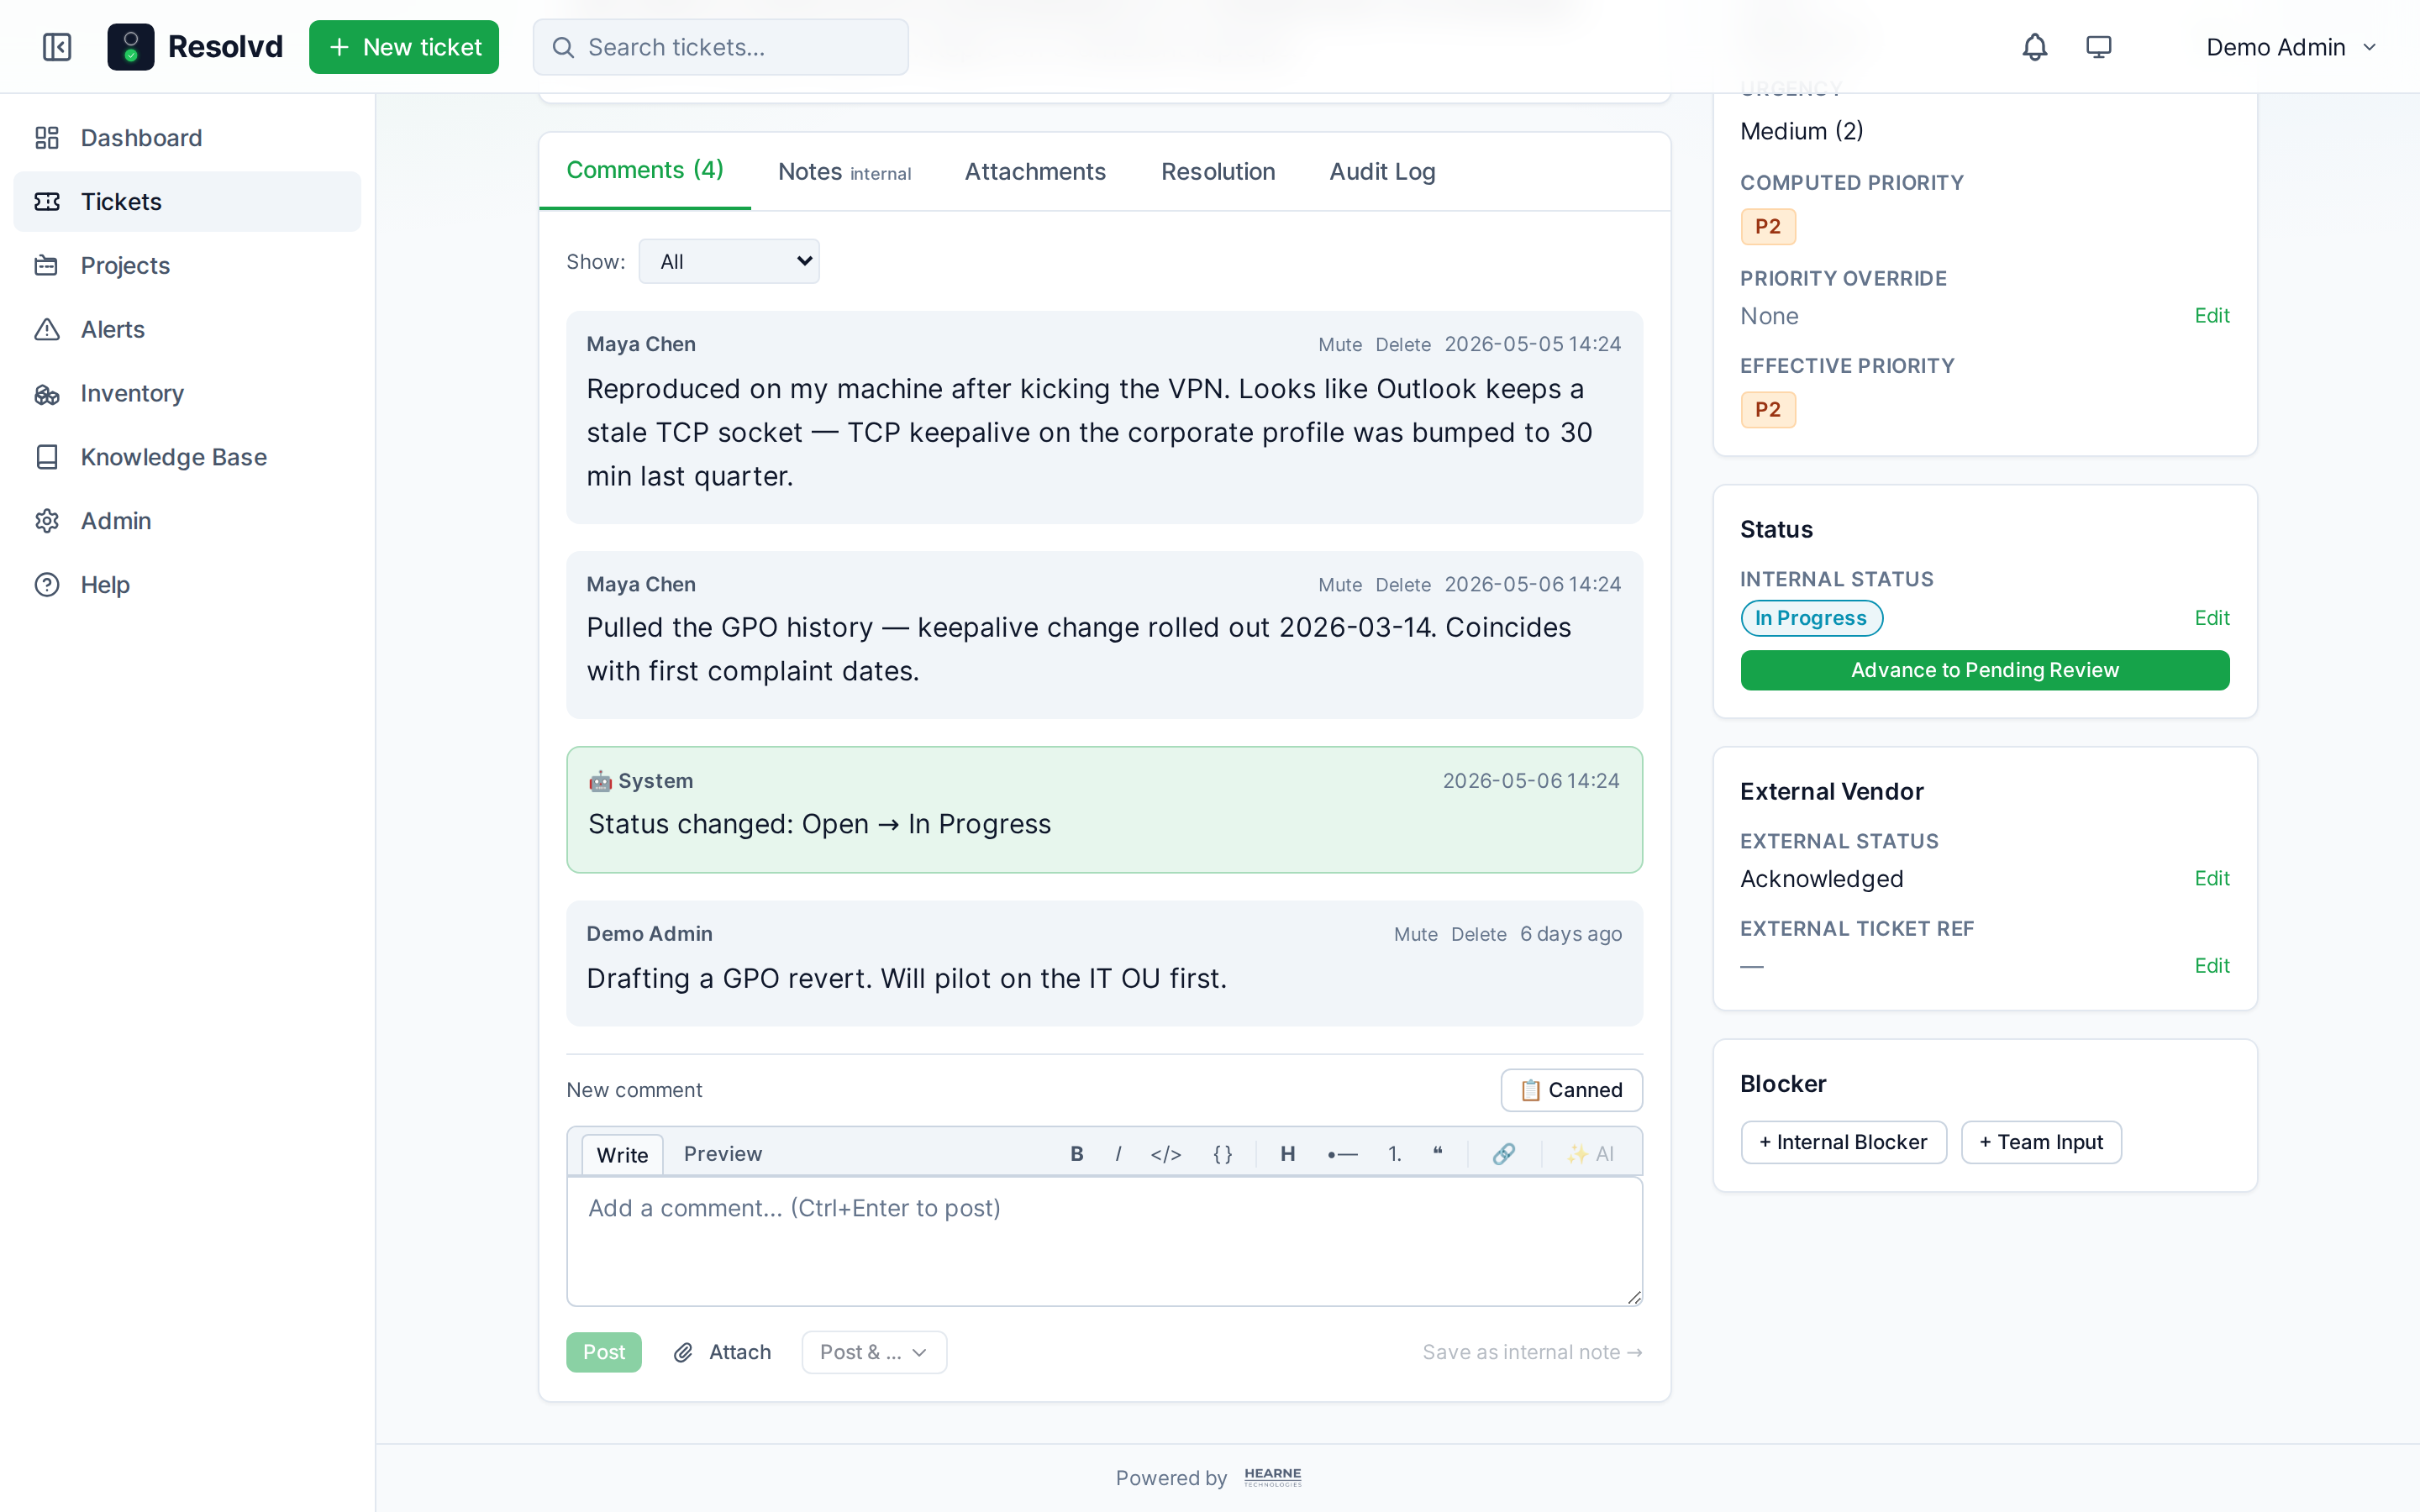
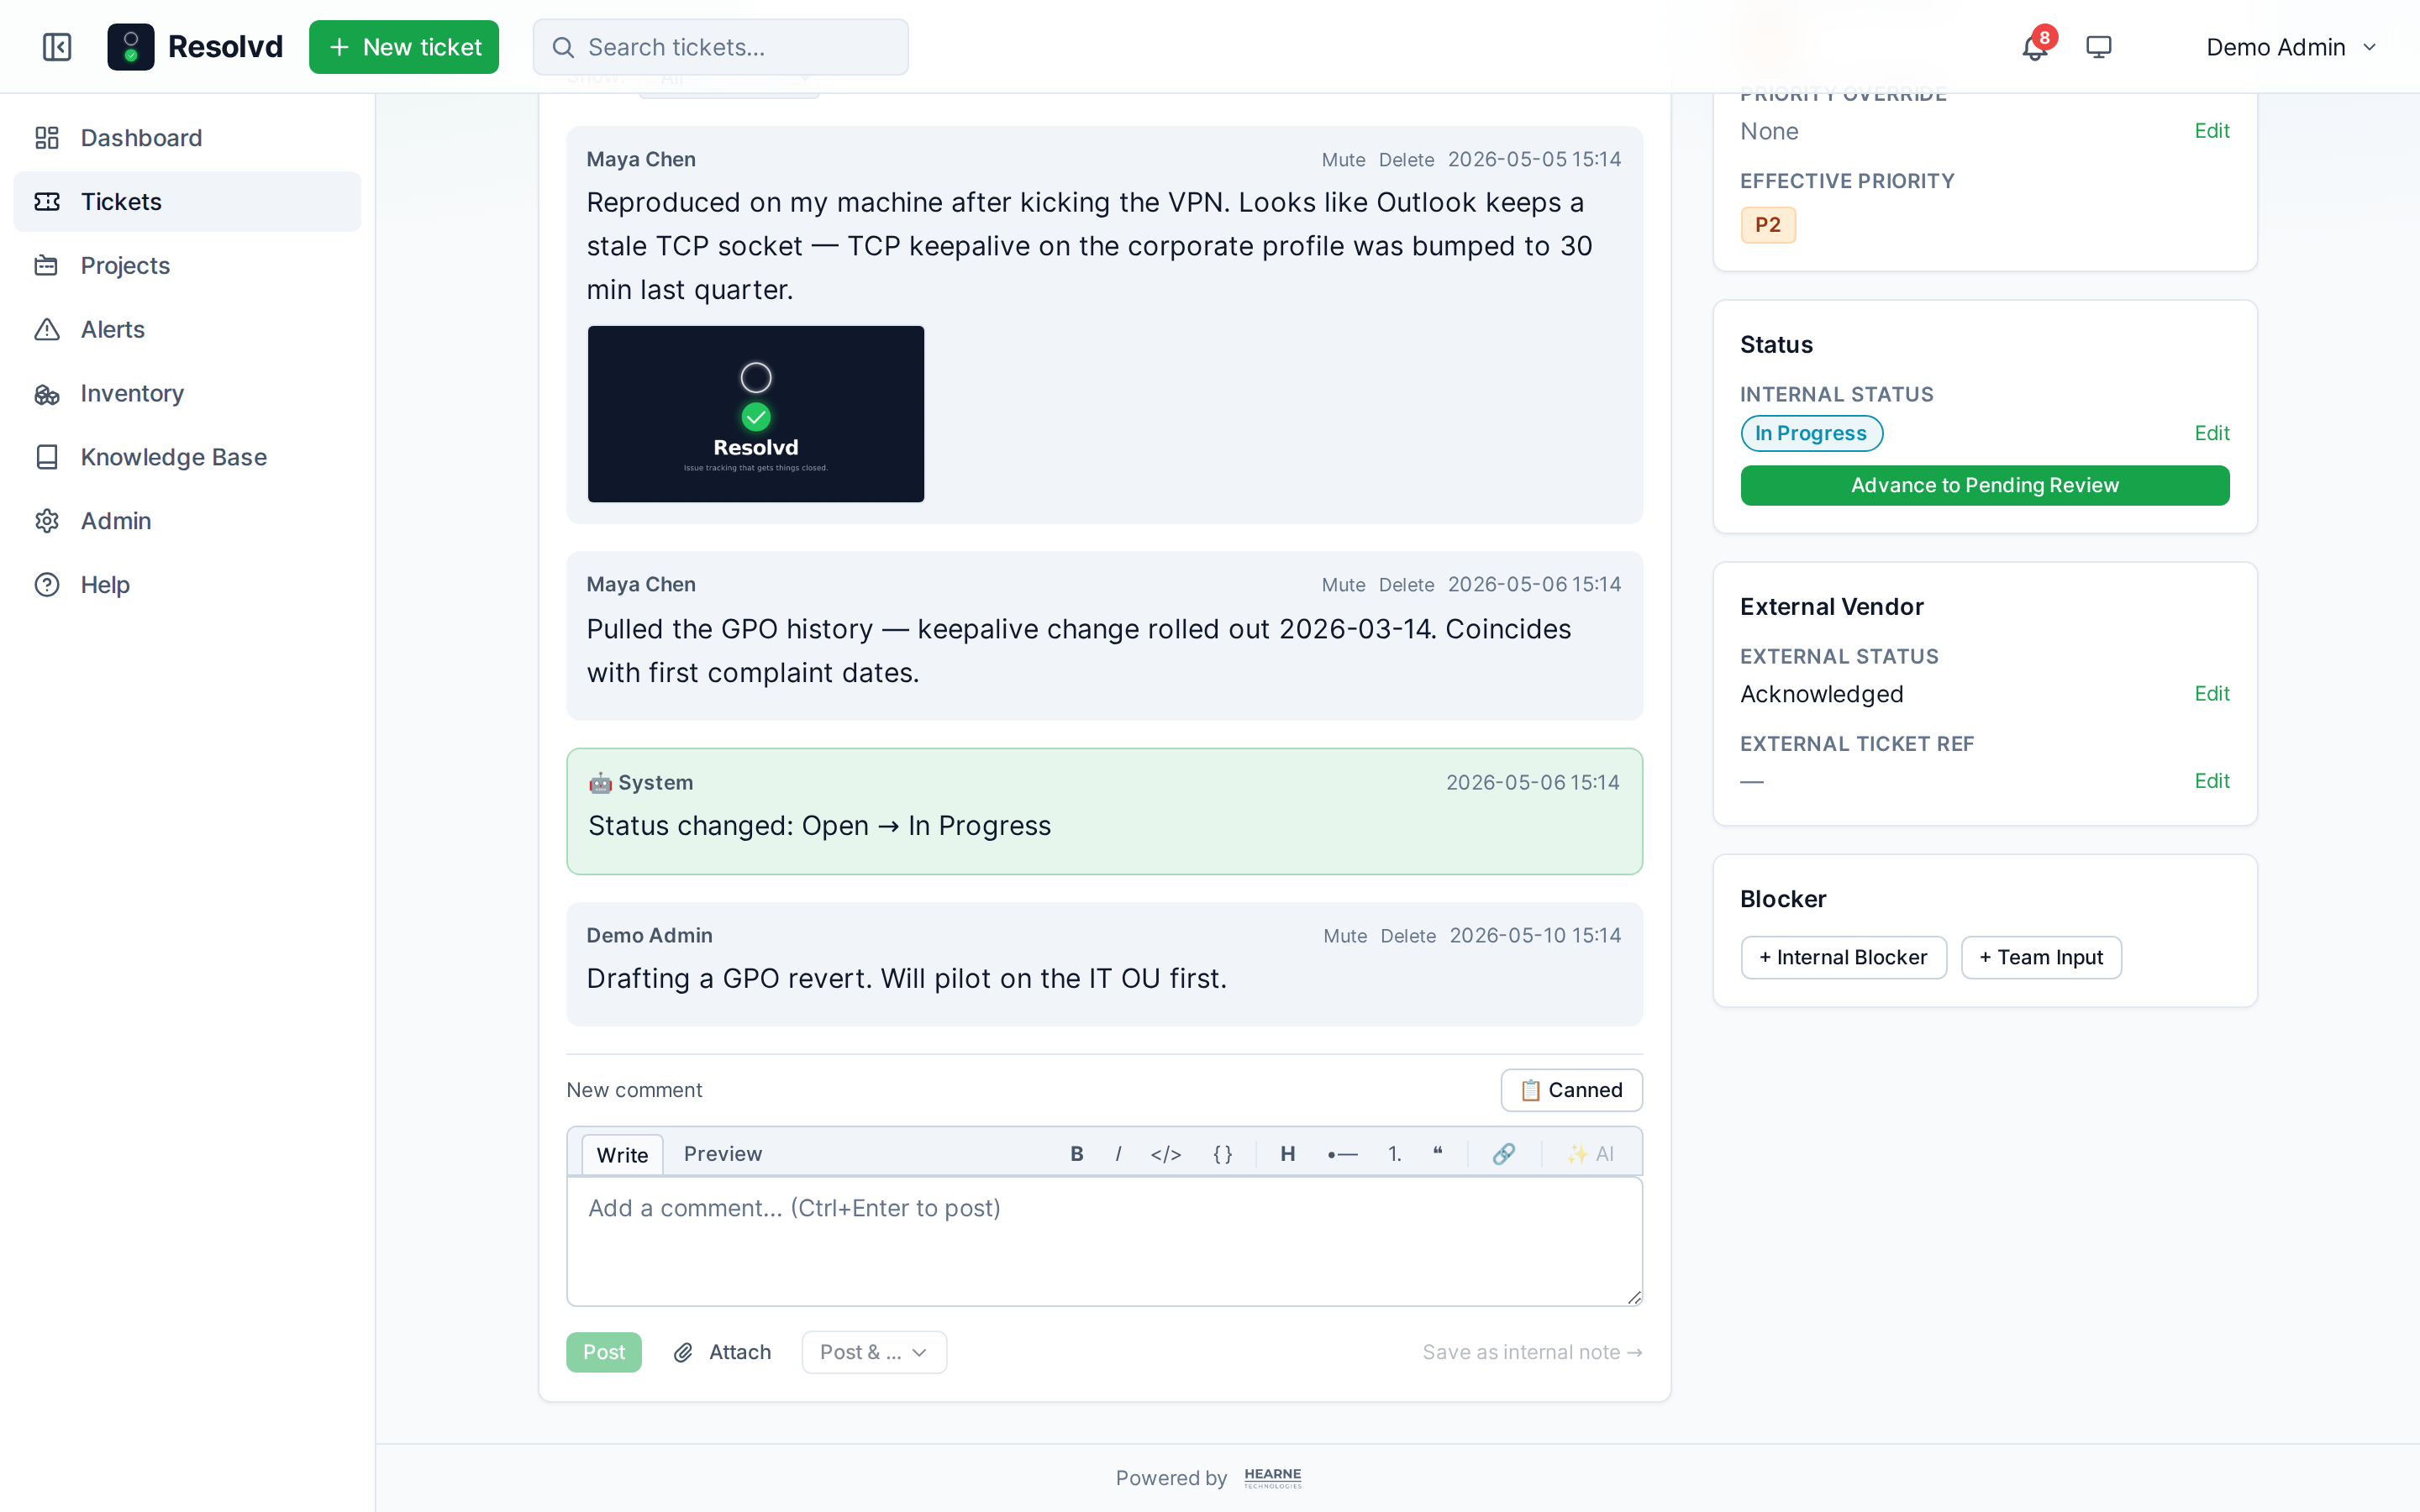
docs(help): refresh ticket-detail comments shot + add image lightbox shot
ticket-detail-comments.png now shows the inline image thumbnail on a
comment. New ticket-detail-image-lightbox.png captures the fullscreen
lightbox (filename label, Download button, close X).

diff --git a/frontend/src/pages/Help.jsx b/frontend/src/pages/Help.jsx
@@ -341,6 +341,11 @@ function SectionTicketDetail({ role }) {
         <Feature name="@mention a user" roles={["Admin","Manager","Tech","Submitter"]} note="Dropdown scoped to project members. Triggers in-app and email notification." />
         <Feature name="Attach files to comment" roles={["Admin","Manager","Tech","Submitter"]} />
         <Feature name="Preview image attachments inline" roles="all" note="Image attachments render as thumbnails on the comment and Attachments tab. Click to open a fullscreen lightbox (Esc / click outside / × to close, Download button bottom-right)." />
+      </div>
+
+      <HelpScreenshot src="/help/ticket-detail-image-lightbox.png" alt="Fullscreen image lightbox over a ticket — filename label top-left, Download button bottom-right, close × top-right" caption="Click any image attachment to open it fullscreen." />
+
+      <div className="space-y-0">
         <Feature name="Mark comment vendor-visible" roles={PRIV} note="Sends comment to attached vendor contacts via email." />
         <Feature name="Insert canned response" roles={["Admin","Manager","Tech","Submitter"]} note="📋 popover next to the composer. Tags like {ticket.ref}, {submitter.firstName} render server-side at insert time." />
         <Feature name="Post & Close / Post & Reopen" roles={HANDLER} note="Change ticket status in the same action as posting." />